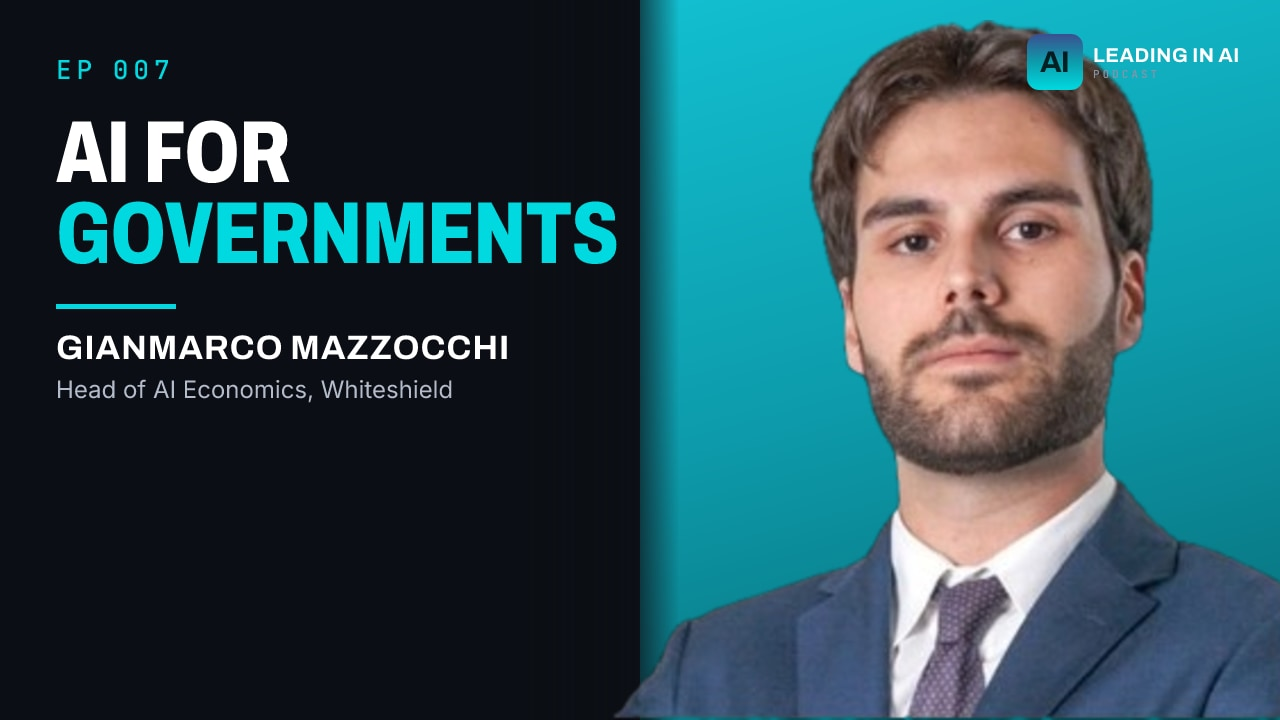
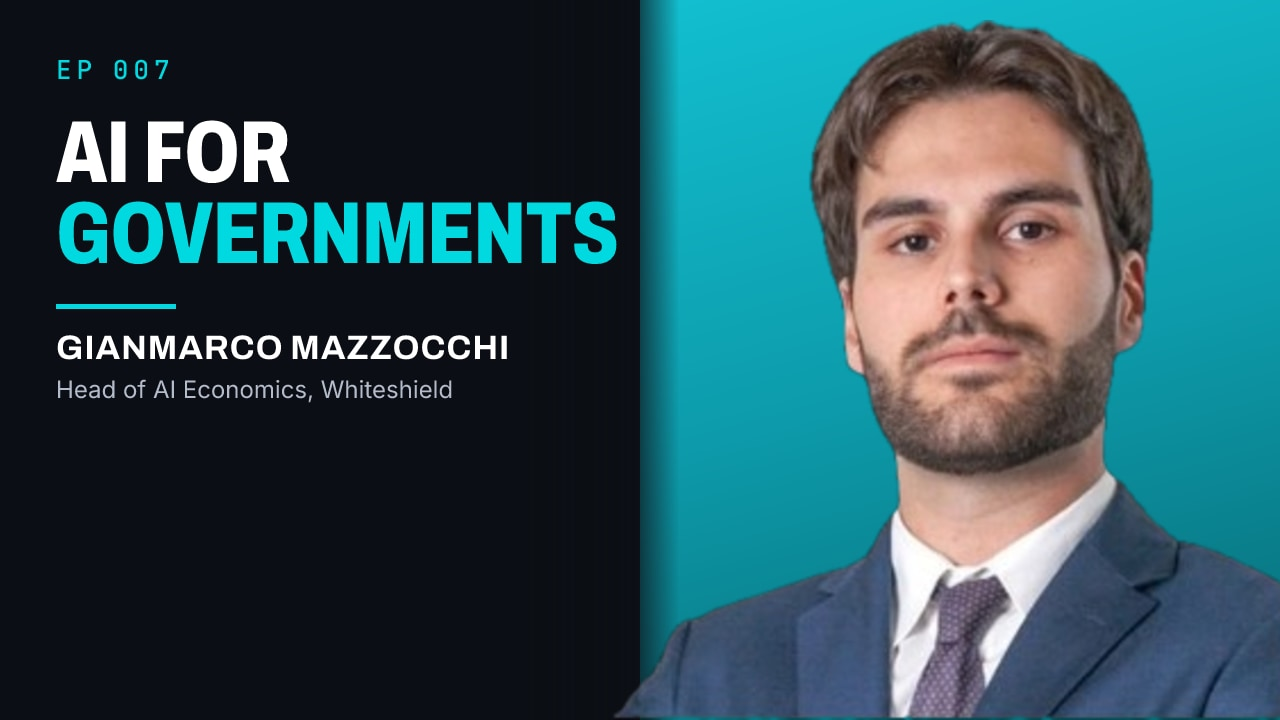
Co-founder feedback: cleaner hero, About and footer; artwork without mark
- Thumbnails no longer carry the brand mark; banner drops the right-hand
  block; logo concepts removed (keeping the current mark).
- Hero: removed the "interview podcast · N episodes" eyebrow.
- About: third paragraph removed (about.format now optional in the schema).
- Footer: host credit removed.

Changed region(s): [[0.7812, 0.0306, 0.9688, 0.1528]]

diff --git a/scripts/artwork.tsx b/scripts/artwork.tsx
@@ -1,12 +1,11 @@
 /**
- * npm run artwork [thumbnails|banner|logos]
+ * npm run artwork [thumbnails|banner]
  *
  * Renders channel artwork from the same content and brand tokens the site
  * uses, so every thumbnail is on-brand without opening a design tool:
  *
  *   artwork/thumbnails/<slug>.jpg   1280×720 YouTube thumbnail per episode
  *   artwork/youtube-banner.jpg      2560×1440 channel banner (+ a guide with the safe area)
- *   artwork/logo-concepts.jpg       three logo directions for review
  *
  * Inputs: content/episodes/*.json (editorial.thumbnail.title, `*word*` = accent),
  * content/guests/*.json, artwork/guests/<slug>.png (transparent cutout — make one
@@ -144,51 +143,6 @@ function fitTitle(words: Word[], maxWidth: number, maxLines: number, letterSpaci
   return 64;
 }
 
-const Mark = ({ size = 1 }: { size?: number }) => (
-  <div style={{ display: "flex", alignItems: "center", gap: 10 * size }}>
-    <div
-      style={{
-        display: "flex",
-        alignItems: "center",
-        justifyContent: "center",
-        width: 56 * size,
-        height: 56 * size,
-        borderRadius: 12 * size,
-        background: `linear-gradient(180deg, #3B4F8F 0%, ${C.teal} 50%, ${C.cyan} 100%)`,
-      }}
-    >
-      <span
-        style={{
-          fontFamily: "Archivo",
-          fontSize: 30 * size,
-          color: "rgba(0,0,0,0.8)",
-          letterSpacing: -1,
-        }}
-      >
-        AI
-      </span>
-    </div>
-    <div style={{ display: "flex", flexDirection: "column", lineHeight: 1 }}>
-      <span
-        style={{ fontFamily: "Archivo", fontSize: 20 * size, color: C.ink, letterSpacing: 0.5 }}
-      >
-        LEADING IN AI
-      </span>
-      <span
-        style={{
-          fontFamily: "JetBrains Mono",
-          fontSize: 11 * size,
-          color: C.dim,
-          letterSpacing: 3 * size,
-          marginTop: 4 * size,
-        }}
-      >
-        PODCAST
-      </span>
-    </div>
-  </div>
-);
-
 // ── Thumbnails ────────────────────────────────────────────────────────────────
 async function thumbnails() {
   const lib = loadLibrary();
@@ -318,9 +272,6 @@ async function thumbnails() {
             </div>
           )}
         </div>
-        <div style={{ position: "absolute", right: 40, top: 34, display: "flex" }}>
-          <Mark />
-        </div>
       </div>
     );
     await render(el, 1280, 720, path.join(OUT, "thumbnails", `${e.slug}.jpg`), 92);
@@ -419,16 +370,6 @@ async function banner(guide = false) {
             {lib.site.tagline}
           </span>
         </div>
-        <div style={{ display: "flex", flexDirection: "column", alignItems: "flex-end", gap: 14 }}>
-          <span
-            style={{ fontFamily: "JetBrains Mono", fontSize: 26, color: C.cyan, letterSpacing: 6 }}
-          >
-            NEW EPISODES WEEKLY
-          </span>
-          <span style={{ fontFamily: "Inter", fontSize: 28, color: C.muted }}>
-            YouTube · Spotify · Apple Podcasts
-          </span>
-        </div>
       </div>
     </div>
   );
@@ -441,195 +382,6 @@ async function banner(guide = false) {
   );
 }
 
-// ── Logo concepts ─────────────────────────────────────────────────────────────
-function Bars({ h = 1 }: { h?: number }) {
-  const heights = [0.35, 0.65, 1, 0.65, 0.35];
-  return (
-    <div style={{ display: "flex", alignItems: "center", gap: 6 * h, height: 56 * h }}>
-      {heights.map((f, i) => (
-        <div
-          key={i}
-          style={{
-            width: 9 * h,
-            height: 56 * h * f,
-            borderRadius: 5 * h,
-            background: `linear-gradient(180deg, ${C.cyan} 0%, ${C.teal} 100%)`,
-          }}
-        />
-      ))}
-    </div>
-  );
-}
-const ConceptA = ({ light = false }) => (
-  <div style={{ display: "flex", alignItems: "baseline", gap: 18 }}>
-    <span
-      style={{
-        fontFamily: "Archivo",
-        fontSize: 64,
-        color: light ? C.navy : C.ink,
-        letterSpacing: -1,
-      }}
-    >
-      LEADING IN
-    </span>
-    <span style={{ fontFamily: "Archivo", fontSize: 96, color: C.cyan, letterSpacing: -3 }}>
-      AI
-    </span>
-    <span
-      style={{
-        fontFamily: "JetBrains Mono",
-        fontSize: 22,
-        color: light ? "#4B5675" : C.dim,
-        letterSpacing: 6,
-      }}
-    >
-      PODCAST
-    </span>
-  </div>
-);
-const ConceptB = ({ light = false }) => (
-  <div style={{ display: "flex", alignItems: "center", gap: 22 }}>
-    <div
-      style={{
-        display: "flex",
-        alignItems: "center",
-        justifyContent: "center",
-        width: 104,
-        height: 104,
-        borderRadius: 24,
-        background: `linear-gradient(180deg, #3B4F8F 0%, ${C.teal} 50%, ${C.cyan} 100%)`,
-      }}
-    >
-      <span
-        style={{
-          fontFamily: "Archivo",
-          fontSize: 58,
-          color: "rgba(0,0,0,0.82)",
-          letterSpacing: -2,
-        }}
-      >
-        AI
-      </span>
-    </div>
-    <div style={{ display: "flex", flexDirection: "column" }}>
-      <span
-        style={{
-          fontFamily: "Archivo",
-          fontSize: 56,
-          color: light ? C.navy : C.ink,
-          letterSpacing: -1,
-          lineHeight: 1,
-        }}
-      >
-        LEADING IN AI
-      </span>
-      <span
-        style={{
-          fontFamily: "JetBrains Mono",
-          fontSize: 20,
-          color: light ? "#4B5675" : C.dim,
-          letterSpacing: 8,
-          marginTop: 10,
-        }}
-      >
-        PODCAST
-      </span>
-    </div>
-  </div>
-);
-const ConceptC = ({ light = false }) => (
-  <div style={{ display: "flex", alignItems: "center", gap: 26 }}>
-    <Bars h={1.6} />
-    <div style={{ display: "flex", flexDirection: "column" }}>
-      <span
-        style={{
-          fontFamily: "Archivo Condensed",
-          fontSize: 84,
-          color: light ? C.navy : C.ink,
-          letterSpacing: 0,
-          lineHeight: 0.9,
-          textTransform: "uppercase",
-        }}
-      >
-        Leading in AI
-      </span>
-      <span
-        style={{
-          fontFamily: "JetBrains Mono",
-          fontSize: 20,
-          color: light ? "#4B5675" : C.dim,
-          letterSpacing: 10,
-          marginTop: 10,
-        }}
-      >
-        THE PODCAST
-      </span>
-    </div>
-  </div>
-);
-async function logos() {
-  const rows = [
-    { label: "A · Current mark, refined (what the site uses today)", El: ConceptA },
-    { label: "B · Tile monogram + wordmark (works as avatar, favicon, watermark)", El: ConceptB },
-    {
-      label: "C · Signal bars + condensed wordmark (audio cue, more 'show', less 'consultancy')",
-      El: ConceptC,
-    },
-  ];
-  const el = (
-    <div
-      style={{
-        width: 1800,
-        height: 1500,
-        display: "flex",
-        flexDirection: "column",
-        background: C.ground,
-        padding: 60,
-        fontFamily: "Inter",
-      }}
-    >
-      <span style={{ fontFamily: "JetBrains Mono", fontSize: 22, color: C.cyan, letterSpacing: 6 }}>
-        LOGO DIRECTIONS · FOR REVIEW
-      </span>
-      {rows.map(({ label, El }, i) => (
-        <div key={i} style={{ display: "flex", flexDirection: "column", marginTop: 44 }}>
-          <span style={{ fontSize: 26, color: C.muted }}>{label}</span>
-          <div style={{ display: "flex", marginTop: 20, gap: 24 }}>
-            <div
-              style={{
-                display: "flex",
-                alignItems: "center",
-                flex: 1,
-                height: 300,
-                padding: 48,
-                borderRadius: 24,
-                background: C.surface,
-                border: "1px solid #1E2534",
-              }}
-            >
-              <El />
-            </div>
-            <div
-              style={{
-                display: "flex",
-                alignItems: "center",
-                width: 720,
-                height: 300,
-                padding: 48,
-                borderRadius: 24,
-                background: "#FFFFFF",
-              }}
-            >
-              <El light />
-            </div>
-          </div>
-        </div>
-      ))}
-    </div>
-  );
-  await render(el, 1800, 1500, path.join(OUT, "logo-concepts.jpg"), 90);
-}
-
 const what = process.argv[2] ?? "all";
 (async () => {
   if (what === "all" || what === "thumbnails") await thumbnails();
@@ -637,7 +389,6 @@ const what = process.argv[2] ?? "all";
     await banner(false);
     await banner(true);
   }
-  if (what === "all" || what === "logos") await logos();
 })().catch((err) => {
   console.error(`✖ ${(err as Error).message}`);
   process.exit(1);

diff --git a/components/home/Hero.tsx b/components/home/Hero.tsx
@@ -1,3 +1,4 @@
+import { Fragment } from "react";
 import type { Site } from "@/lib/schemas";
 import type { EpisodeCardData } from "@/lib/cards";
 import { Container } from "@/components/layout/Container";
@@ -12,15 +13,7 @@ import { Reveal } from "@/components/motion/Reveal";
  * Home hero: wordmark reveal, then one line with the positioning and the
  * calls to action, then the latest episode as a wide featured card.
  */
-export function Hero({
-  site,
-  featured,
-  episodeCount,
-}: {
-  site: Site;
-  featured: EpisodeCardData;
-  episodeCount: number;
-}) {
+export function Hero({ site, featured }: { site: Site; featured: EpisodeCardData }) {
   return (
     <section className="relative overflow-hidden dot-grid">
       <div
@@ -28,15 +21,13 @@ export function Hero({
         aria-hidden="true"
       />
       <Container className="relative pt-14 pb-20 md:pt-20 md:pb-24">
-        <p className="meta text-teal">Interview podcast · {episodeCount} episodes</p>
         <HeroReveal
-          className="mt-5"
           lines={[
             "Leading in",
-            <>
+            <Fragment key="ai-podcast">
               <span className="text-gradient">AI</span>
               <span className="ml-[0.22em] text-ink-dim">Podcast</span>
-            </>,
+            </Fragment>,
           ]}
         />
 

diff --git a/app/about/page.tsx b/app/about/page.tsx
@@ -34,7 +34,7 @@ export default function AboutPage() {
             <div className="mt-8 flex flex-col gap-5 text-lg leading-relaxed text-ink-muted">
               <p>{site.about.intro}</p>
               <p>{site.about.audience}</p>
-              <p>{site.about.format}</p>
+              {site.about.format && <p>{site.about.format}</p>}
             </div>
           </Reveal>
           <Reveal delay={0.1} className="md:col-span-5 md:pl-8">

diff --git a/components/layout/Footer.tsx b/components/layout/Footer.tsx
@@ -26,9 +26,6 @@ export function Footer({ site }: { site: Site }) {
         <div className="md:col-span-5">
           <Wordmark className="w-36" />
           <p className="mt-6 max-w-sm text-ink-muted">{site.tagline}</p>
-          {site.host.name && (
-            <p className="mt-4 text-sm text-ink-dim">Hosted by {site.host.name}</p>
-          )}
         </div>
 
         <nav className="md:col-span-2" aria-label="Explore">

diff --git a/app/page.tsx b/app/page.tsx
@@ -34,7 +34,7 @@ export default function HomePage() {
   return (
     <>
       <JsonLd data={podcastSeriesJsonLd(site, absoluteUrl("/").replace(/\/$/, ""))} />
-      {featuredCard && <Hero site={site} featured={featuredCard} episodeCount={episodes.length} />}
+      {featuredCard && <Hero site={site} featured={featuredCard} />}
 
       <Section
         eyebrow="Latest"

diff --git a/lib/schemas.ts b/lib/schemas.ts
@@ -166,7 +166,7 @@ export const SiteSchema = z.object({
   about: z.object({
     intro: z.string(),
     audience: z.string(),
-    format: z.string(),
+    format: z.string().optional(),
   }),
 });
 

diff --git a/README.md b/README.md
@@ -22,7 +22,7 @@ npm run dev                  # http://localhost:3000
 |---|---|
 | `npm run sync` | Pull new episodes, clips and transcripts from YouTube into `content/` and print a report |
 | `npm run validate` | Validate every content file (runs automatically before `build`) |
-| `npm run artwork` | Render YouTube thumbnails, the channel banner and logo concepts into `artwork/` |
+| `npm run artwork` | Render YouTube thumbnails and the channel banner into `artwork/` |
 | `npm run headshot -- <slug> <photo>` | Cut a guest out of a photo (macOS Vision) for the site and thumbnails |
 | `npm run build` | Production build. Fails loudly on broken content |
 | `npm run lint` / `typecheck` / `format` | The usual |
